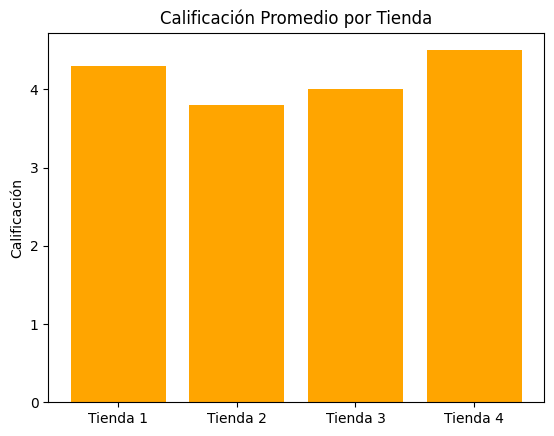
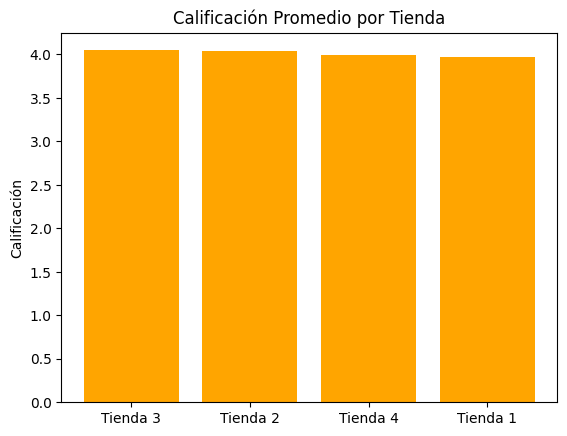
creacion de algoritmo de script de creacion de imagenes desde datos para incluir en HTML

diff --git a/challenge.py b/challenge.py
@@ -1,5 +1,18 @@
 import pandas as pd
 import matplotlib.pyplot as plt
+import os
+import webbrowser
+
+# Crear carpeta para guardar imágenes
+output_dir = "imagenes_reportes"
+os.makedirs(output_dir, exist_ok=True)
+
+# Función para guardar gráficos
+def guardar_grafico(fig, nombre):
+    path = os.path.join(output_dir, f"{nombre}.png")
+    fig.savefig(path, bbox_inches='tight')
+    plt.close(fig)
+    return path
 
 # URLs de los archivos CSV
 urls = {
@@ -11,6 +24,21 @@ urls = {
 
 # Cargar los archivos CSV en una lista de tuplas: (nombre, DataFrame)
 tiendas = [(nombre, pd.read_csv(url)) for nombre, url in urls.items()]
+
+# Cargar los archivos CSV
+tiendas = [(nombre, pd.read_csv(url)) for nombre, url in urls.items()]
+
+# Ingresos
+ingresos = [{'Tienda': nombre, 'Ingreso': df.get('Precio', pd.Series()).sum()} for nombre, df in tiendas]
+df_ingresos = pd.DataFrame(ingresos).sort_values(by='Ingreso', ascending=False)
+
+# Calificaciones
+calificaciones = [{'Tienda': nombre, 'Calificación Promedio': df.get('Calificación', pd.Series()).mean()} for nombre, df in tiendas]
+df_calificaciones = pd.DataFrame(calificaciones).sort_values(by='Calificación Promedio', ascending=False)
+
+# Costo de Envío
+costos_envio = [{'Tienda': nombre, 'Costo de Envío Promedio': df.get('Costo de envío', pd.Series()).mean()} for nombre, df in tiendas]
+df_envios = pd.DataFrame(costos_envio).sort_values(by='Costo de Envío Promedio')
 
 # ------------------------
 # INGRESOS POR TIENDA
@@ -123,49 +151,60 @@ print(df_envios)
 # ------------------------
 # GRÁFICO 1: Ingreso total por tienda
 # ------------------------
-df_ingresos.plot(kind='bar', x='Tienda', y='Ingreso', color='skyblue', legend=False)
-plt.title('Ingreso total por tienda')
-plt.ylabel('Ingreso total (USD)')
-plt.xlabel('Tienda')
-plt.xticks(rotation=45)
-plt.tight_layout()
-plt.show()
+fig1, ax1 = plt.subplots()
+ax1.bar(df_ingresos['Tienda'], df_ingresos['Ingreso'], color='teal')
+ax1.set_title("Ingreso Total por Tienda")
+ax1.set_ylabel("Ingreso")
+img_ingresos = guardar_grafico(fig1, "ingresos")
 
 # ------------------------
 # GRÁFICO 2: Calificación promedio por tienda
 # ------------------------
-df_calificaciones.plot(kind='bar', x='Tienda', y='Calificación Promedio', color='lightgreen', legend=False)
-plt.title('Calificación promedio por tienda')
-plt.ylabel('Promedio')
-plt.ylim(0, 5)
-plt.xlabel('Tienda')
-plt.xticks(rotation=45)
-plt.tight_layout()
-plt.show()
+fig2, ax2 = plt.subplots()
+ax2.bar(df_calificaciones['Tienda'], df_calificaciones['Calificación Promedio'], color='orange')
+ax2.set_title("Calificación Promedio por Tienda")
+ax2.set_ylabel("Calificación")
+img_calificaciones = guardar_grafico(fig2, "calificaciones")
 
 # ------------------------
 # GRÁFICO 3: Costo de envío promedio por tienda
 # ------------------------
-df_envios.plot(kind='bar', x='Tienda', y='Costo de Envío Promedio', color='orange', legend=False)
-plt.title('Costo de envío promedio por tienda')
-plt.ylabel('Costo promedio (USD)')
-plt.xlabel('Tienda')
-plt.xticks(rotation=45)
-plt.tight_layout()
-plt.show()
+fig3, ax3 = plt.subplots()
+ax3.bar(df_envios['Tienda'], df_envios['Costo de Envío Promedio'], color='purple')
+ax3.set_title("Costo de Envío Promedio por Tienda")
+ax3.set_ylabel("Costo (USD)")
+img_envio = guardar_grafico(fig3, "envio")
 
 # ------------------------
 # GRÁFICO 4: Productos vendidos por categoría y tienda
 # ------------------------
-plt.figure(figsize=(12,6))
+fig4, ax4 = plt.subplots(figsize=(10, 6))
 for tienda in df_categorias['Tienda'].unique():
     subset = df_categorias[df_categorias['Tienda'] == tienda]
-    plt.bar(subset['Categoría del Producto'], subset['Cantidad'], label=tienda)
+    ax4.bar(subset['Categoría del Producto'], subset['Cantidad'], label=tienda)
+ax4.set_title("Productos Vendidos por Categoría y Tienda")
+ax4.set_ylabel("Cantidad")
+ax4.set_xticklabels(subset['Categoría del Producto'], rotation=45, ha='right')
+ax4.legend()
+img_categorias = guardar_grafico(fig4, "categorias")
 
-plt.title('Productos vendidos por categoría y tienda')
-plt.xlabel('Categoría del Producto')
-plt.ylabel('Cantidad')
-plt.xticks(rotation=45)
-plt.legend()
-plt.tight_layout()
-plt.show()
+# ------------------------
+# Crear archivo HTML con todos los gráficos
+# ------------------------
+
+html_path = "reporte_tiendas.html"
+with open(html_path, "w", encoding="utf-8") as f:
+    f.write("<html><head><title>Reporte de Tiendas</title></head><body>")
+    f.write("<h1>Reporte de Análisis de Tiendas</h1>")
+    for title, img in [
+        ("Ingreso Total por Tienda", img_ingresos),
+        ("Calificación Promedio por Tienda", img_calificaciones),
+        ("Costo de Envío Promedio por Tienda", img_envio),
+        ("Productos Vendidos por Categoría y Tienda", img_categorias),
+    ]:
+        f.write(f"<h2>{title}</h2>")
+        f.write(f'<img src="{img}" style="width:600px;"><br><br>')
+    f.write("</body></html>")
+
+# Abrir en el navegador
+webbrowser.open_new_tab(html_path)
